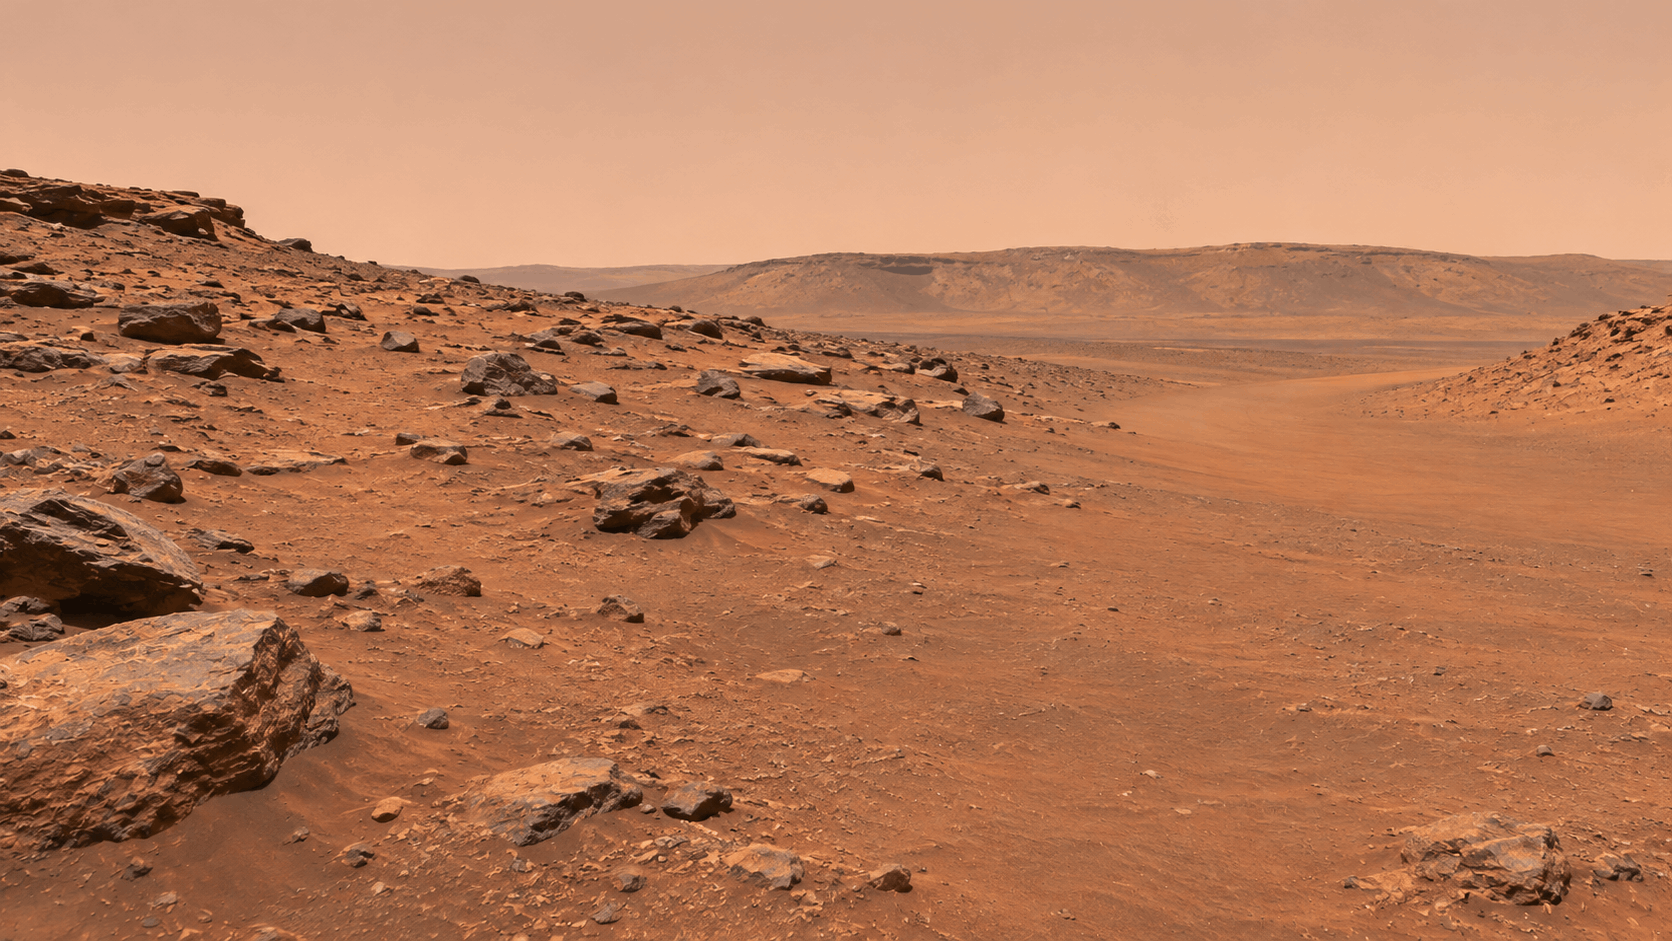
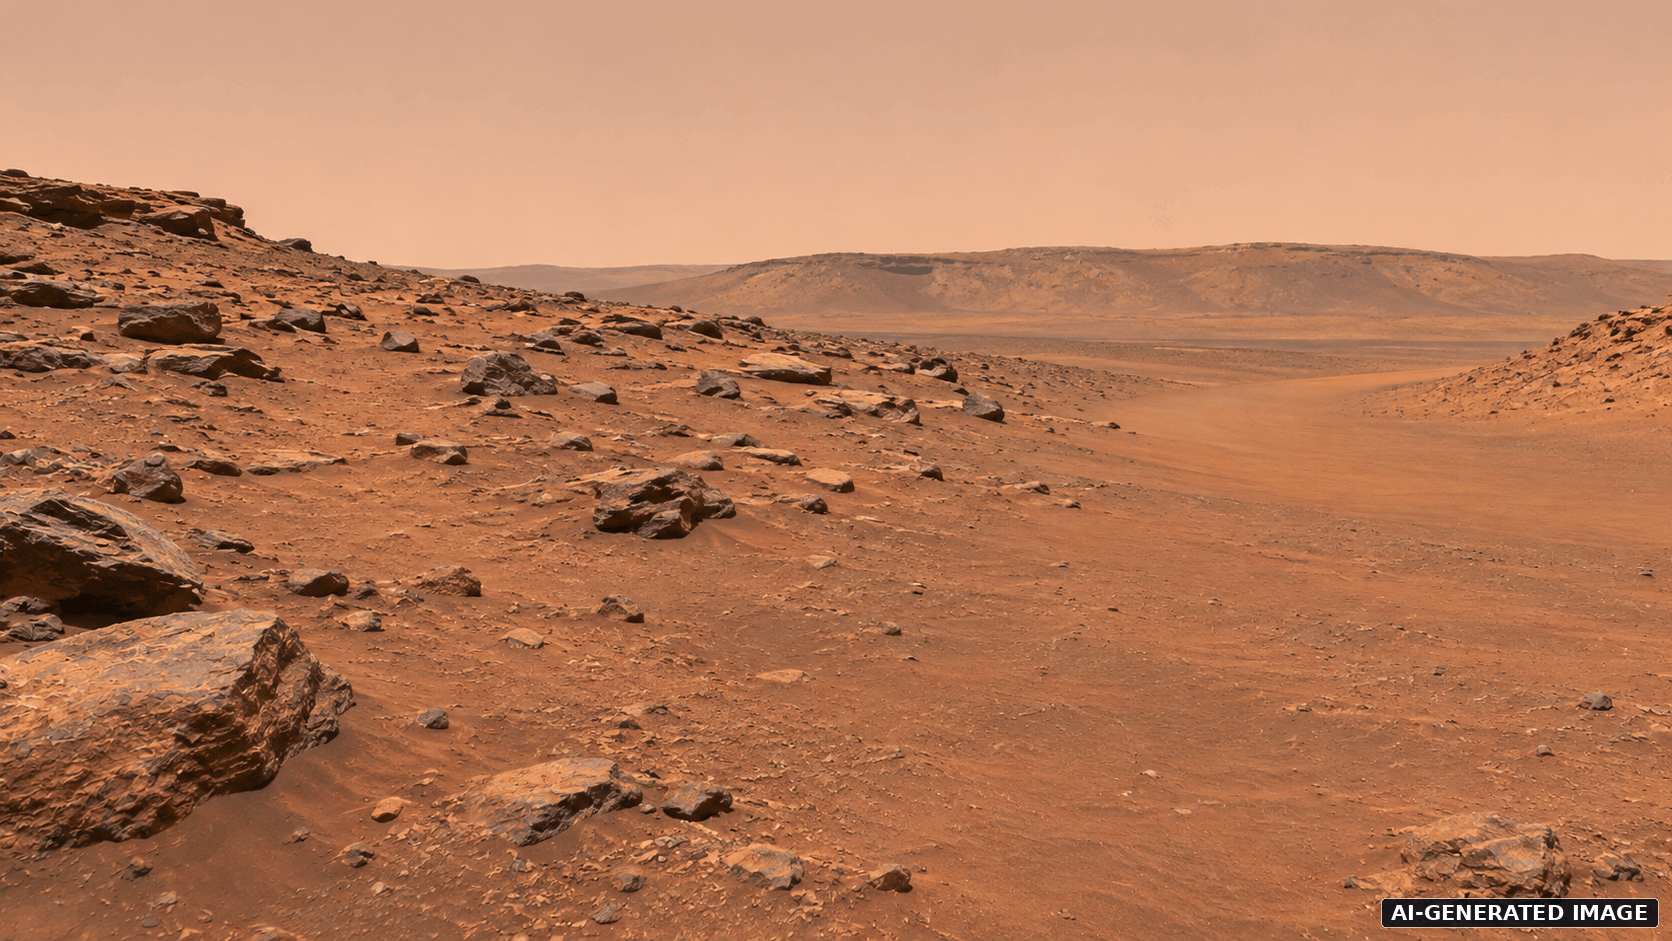
V12

Changed region(s): [[0.8086, 0.9554, 0.9952, 0.9862]]

diff --git a/src/game-next.js b/src/game-next.js
@@ -23,8 +23,7 @@ function fadeTo(next,delay=300){root.classList.add('mq-fade-out');setTimeout(()=
 const button=(t,a,kind='')=>`<button class="mq-btn ${kind}" data-act="${a}">${t}</button>`;
 const glass=(text='')=>`<span class="mq-tag">${text}</span>`;
 const source=(t='')=>t?`<span class="mq-source">${esc(t)}</span>`:'';
-const watermark=()=>`<span class="mq-ai">NASA historical photographs identified in records · AI-assisted visuals used for storytelling</span>`;
-const shell=(title,inner,opts={})=>`<main class="mq-screen ${opts.class||''}" style="--scene-bg:url('${opts.bg||IM.signals}')"><div class="mq-back"></div><div class="mq-vignette"></div><div class="mq-header"><span class="mq-brand"><img src="assets/branding/mira-quest-logo.png" alt="" class="mq-header-logo">MIRA QUEST</span><span class="mq-header-sub">${title}</span><div class="mq-nav">${button('▤ ARCHIVE','gallery','subtle')}${button('⚙','settings','subtle')}</div></div>${inner}${watermark()}</main>`;
+const shell=(title,inner,opts={})=>`<main class="mq-screen ${opts.class||''}" style="--scene-bg:url('${opts.bg||IM.signals}')"><div class="mq-back"></div><div class="mq-vignette"></div><div class="mq-header"><span class="mq-brand"><img src="assets/branding/mira-quest-logo.png" alt="" class="mq-header-logo">MIRA QUEST</span><span class="mq-header-sub">${title}</span><div class="mq-nav">${button('▤ ARCHIVE','gallery','subtle')}${button('⚙','settings','subtle')}</div></div>${inner}</main>`;
 function stopAll(){clearTimeout(timer);cancelAnimationFrame(raf);audio.pause();audio.currentTime=0;activeSound='';ambience.pause();ambience.currentTime=0;activeAmbience='';if(playingFx){playingFx.pause();playingFx=null;}if(video){video.pause();video=null;}}
 function track(name,loop=true){if(!audioUnlocked||s.muted||!name)return;const src=`assets/audio/${name}.mp3`;if(activeSound===src&&!audio.paused)return;audio.pause();audio.src=src;audio.loop=loop;audio.currentTime=0;activeSound=src;audio.volume=s.volume*(name==='signal'?.70:name==='opening'?.95:.66);const promise=audio.play();if(promise)promise.catch(()=>{s.soundTrouble=true;});}
 function fx(name){if(!audioUnlocked||s.muted)return;try{if(playingFx){playingFx.pause();playingFx.currentTime=0;}playingFx=new Audio(`assets/audio/${name}.mp3`);playingFx.volume=s.volume*.30;playingFx.play().catch(()=>{});}catch{}}
@@ -56,11 +55,11 @@ function renderTravel(){
  const m=mission[s.mission],moon=s.mission==='eagle'; const p=s.travel;
  const totalDays=202, currentDays=(p/100)*totalDays, currentHours=(p/100)*102.75;
  const progressLine=moon?`${Math.floor(currentHours)} HOURS INTO THE JOURNEY`:`${Math.floor(currentDays)} EARTH DAYS TRAVELED`;
- return shell(`JOURNEY TO ${m.world.toUpperCase()}`,`<div class="mq-stars"></div><div class="mq-fast-streaks" id="mq-streaks"></div><img class="mq-planet ${p>=75?'visible':''}" src="${moon?IM.moonNear:(p>94?IM.marsNear:IM.mars)}" alt="${m.world} photographed from space"><div class="mq-travel-title">${glass(moon?'APOLLO 11 · JULY 1969 · THREE-DAY LUNAR TRANSFER':'OPPORTUNITY · LAUNCHED JULY 2003 · LANDED JANUARY 2004')}<h2>${p>=100?m.world.toUpperCase()+' REACHED':'TRAVELING THROUGH SPACE'}</h2></div>${p>=100?`<div class="mq-arrived">${glass('ARRIVAL COMPLETE')}${button('START EXPLORING →','arrive','primary')}</div>`:''}<div class="mq-progress"><div class="mq-progress-meta"><span>EARTH</span><span>${moon?'MOON':'MARS'}</span></div><div class="mq-progress-line"><i style="width:${p}%"></i><b id="mq-progress-dot" style="left:${p}%"></b></div><p id="mq-travel-percent">${progressLine}</p><small id="mq-travel-speed">${moon?'A SHORTER JOURNEY TOWARD THE FIRST MOON LANDING':'A LONG JOURNEY THROUGH INTERPLANETARY SPACE'}</small></div>`,{bg:IM.stars,class:'mq-travel'});
+ return shell(`JOURNEY TO ${m.world.toUpperCase()}`,`<div class="mq-stars"></div><div class="mq-fast-streaks" id="mq-streaks"></div><img class="mq-planet ${p>=75?'visible':''}" src="${moon?IM.moonNear:IM.mars}" alt="${m.world} illustrated from space">${moon?'':`<img class="mq-planet mq-planet-near ${p>=94?'visible':''}" src="${IM.marsNear}" alt="" aria-hidden="true">`}<div class="mq-travel-title">${glass(moon?'APOLLO 11 · JULY 1969 · THREE-DAY LUNAR TRANSFER':'OPPORTUNITY · LAUNCHED JULY 2003 · LANDED JANUARY 2004')}<h2>${p>=100?m.world.toUpperCase()+' REACHED':'TRAVELING THROUGH SPACE'}</h2></div>${p>=100?`<div class="mq-arrived">${glass('ARRIVAL COMPLETE')}${button('START EXPLORING →','arrive','primary')}</div>`:''}<div class="mq-progress"><div class="mq-progress-meta"><span>EARTH</span><span>${moon?'MOON':'MARS'}</span></div><div class="mq-progress-line"><i style="width:${p}%"></i><b id="mq-progress-dot" style="left:${p}%"></b></div><p id="mq-travel-percent">${progressLine}</p><small id="mq-travel-speed">${moon?'A SHORTER JOURNEY TOWARD THE FIRST MOON LANDING':'A LONG JOURNEY THROUGH INTERPLANETARY SPACE'}</small></div>`,{bg:IM.stars,class:'mq-travel'});
 }
-function runTravel(){if(s.travel>=100)return;const duration=s.mission==='eagle'?7800:13200;const start=performance.now()-s.travel/100*duration;const tick=t=>{if(s.scene!=='travel')return;s.travel=Math.min(100,(t-start)/duration*100);const bar=root.querySelector('.mq-progress-line i'),p=root.querySelector('#mq-travel-percent'),ps=root.querySelector('#mq-travel-speed'),planet=root.querySelector('.mq-planet'),dot=root.querySelector('#mq-progress-dot');if(bar)bar.style.width=s.travel+'%';if(dot)dot.style.left=s.travel+'%';if(p){if(s.mission==='eagle'){const hours=Math.floor(s.travel/100*102.75);p.textContent=`${hours} HOURS INTO THE JOURNEY`;}else{const days=Math.floor(s.travel/100*202);p.textContent=`${days} EARTH DAYS TRAVELED`;}}if(planet){planet.classList.toggle('visible',s.travel>=75);if(s.mission==='opportunity'&&s.travel>=94&&!planet.dataset.close){planet.src=IM.marsNear;planet.dataset.close='yes'}}if(s.travel>=100){paint();return}raf=requestAnimationFrame(tick)};raf=requestAnimationFrame(tick)}
+function runTravel(){if(s.travel>=100)return;const duration=s.mission==='eagle'?7800:13200;const start=performance.now()-s.travel/100*duration;const tick=t=>{if(s.scene!=='travel')return;s.travel=Math.min(100,(t-start)/duration*100);const bar=root.querySelector('.mq-progress-line i'),p=root.querySelector('#mq-travel-percent'),ps=root.querySelector('#mq-travel-speed'),planet=root.querySelector('.mq-planet'),dot=root.querySelector('#mq-progress-dot');if(bar)bar.style.width=s.travel+'%';if(dot)dot.style.left=s.travel+'%';if(p){if(s.mission==='eagle'){const hours=Math.floor(s.travel/100*102.75);p.textContent=`${hours} HOURS INTO THE JOURNEY`;}else{const days=Math.floor(s.travel/100*202);p.textContent=`${days} EARTH DAYS TRAVELED`;}}if(planet)planet.classList.toggle('visible',s.travel>=75);const closePlanet=root.querySelector('.mq-planet-near');if(closePlanet)closePlanet.classList.toggle('visible',s.travel>=94);if(s.travel>=100){const title=root.querySelector('.mq-travel-title h2');if(title)title.textContent=mission[s.mission].world.toUpperCase()+' REACHED';if(!root.querySelector('.mq-arrived')){const box=document.createElement('div');box.className='mq-arrived';box.innerHTML=`${glass('ARRIVAL COMPLETE')}${button('START EXPLORING →','arrive','primary')}`;root.querySelector('.mq-travel')?.appendChild(box)}return}raf=requestAnimationFrame(tick)};raf=requestAnimationFrame(tick)}
 function renderArrival(){const m=mission[s.mission],done=s.scan>=m.scan.length;return shell(m.land,`<div class="mq-arrival-plate ${s.mission==='opportunity'?'mars':'moon'}"></div><div class="mq-scan mq-card">${glass('ENVIRONMENT SCAN')}<h2>${m.world.toUpperCase()} · ARRIVAL</h2>${m.scan.slice(0,s.scan).map(([k,v])=>`<div class="mq-scan-row"><span>${k}</span><b>${v}</b></div>`).join('')}${done?`<div class="mq-scan-row">✓ SCAN COMPLETE</div>${button('LOOK AROUND →','scanDone','primary')}`:''}</div>`,{bg:s.mission==='opportunity'?photo('mars-panorama-user.jpg'):m.arrive});}
-function renderLook(){const m=mission[s.mission],ready=s.look>=0.95,moon=s.mission==='eagle';return shell(m.land,`<div class="mq-panorama ${moon?'moon-look':'mars-look'}" id="mq-panorama"><div class="mq-panorama-scene" style="--pan:${(s.look*(moon?85:100)).toFixed(2)}%"></div>${moon?`<img class="mq-eagle-reveal" src="${IM.eagleStage}" alt="Apollo 11 Eagle descent stage reconstruction" style="opacity:${ready?1:0}" />`:''}</div><div class="mq-look-top">${glass(ready?'UNIDENTIFIED SIGNAL LOCATED':'SEARCH THE LANDSCAPE')}<p>${ready?'You found the source of the signal.':'Drag or tap Look Right to search the landscape.'}</p></div><div class="mq-look-arrows">${button('← LOOK LEFT','lookLeft','outline')}${button('LOOK RIGHT →','lookRight','outline')}</div>${ready?`<div class="mq-contact">${button('ESTABLISH CONTACT →','contact','primary')}</div>`:''}<span class="mq-source">${moon?'NASA Apollo 11 lunar surface image with an AI-assisted descent-stage reconstruction':'AI-assisted Opportunity encounter reconstruction · historical photographs are in the archive'}</span>`,{bg:moon?IM.signals:IM.oppTalk,class:'mq-search'});}
+function renderLook(){const m=mission[s.mission],ready=s.look>=0.95,moon=s.mission==='eagle';return shell(m.land,`<div class="mq-panorama ${moon?'moon-look':'mars-look'}" id="mq-panorama"><div class="mq-panorama-scene" style="--pan:${(s.look*(moon?85:100)).toFixed(2)}%"></div>${moon?`<img class="mq-eagle-reveal" src="${IM.eagleStage}" alt="Apollo 11 Eagle descent stage reconstruction" style="opacity:${ready?1:0}" />`:''}</div><div class="mq-look-top">${glass(ready?'UNIDENTIFIED SIGNAL LOCATED':'SEARCH THE LANDSCAPE')}<p>${ready?'You found the source of the signal.':'Drag or tap Look Right to search the landscape.'}</p></div><div class="mq-look-arrows">${button('← LOOK LEFT','lookLeft','outline')}${button('LOOK RIGHT →','lookRight','outline')}</div>${ready?`<div class="mq-contact">${button('ESTABLISH CONTACT →','contact','primary')}</div>`:''}`,{bg:moon?IM.signals:IM.oppTalk,class:'mq-search'});}
 function currentAct(){return window.MIRA_STORIES[s.mission]?.[s.act]};
 function currentBeats(){const a=currentAct();return s.phase==='after'?(a.after||[]):a.beats||[];}
 function replaceName(t){return String(t).replaceAll('{name}',s.name||'Explorer');}
@@ -135,7 +134,7 @@ function renderEvidence(){
  else if(kind==='ascent')body=`${photoBlock(pth,'Apollo 11 ascent-stage departure reconstructed')}<div class="mq-evidence-aside">${glass('JULY 21, 1969')}<h3>Look what remains.</h3>${speakerLine('I stayed here as the launch platform while the upper stage lifted Neil Armstrong and Buzz Aldrin toward their companion in lunar orbit. Both stages had served their purpose.')}${button('RETURN TO EAGLE →','evidenceDone','primary')}</div>`;
  else if(kind==='storm'){
  const lines=['At first, the sunlight was simply dimmer. Then the sky grew thick with dust.','My solar panels needed sunlight. Every day, there was less of it reaching me.','On June 10, 2018, my last message arrived on Earth. I cannot tell you exactly what happened inside my systems afterward.','My team kept listening. For months, they tried to reach me again. But no reply came.'];
- body=`<div class="mq-storm-full"><div class="mq-storm-video-wrap"><video id="mq-storm-video" src="${V}mars-sandstorm.mp4" preload="metadata" playsinline loop autoplay muted poster="${IM.oppStorm}"></video></div><div class="mq-storm-intro-curtain"></div><div class="mq-storm-narration mq-dialogue mq-card"><div class="mq-speaker">${avatar('OPPORTUNITY')}<b>OPPORTUNITY</b></div><p id="mq-storm-line">${esc(lines[Math.min(s.stormLine,lines.length-1)])}</p><div class="mq-dialogue-actions">${button(s.stormLine<lines.length-1?'CONTINUE →':'RETURN TO OPPORTUNITY →',s.stormLine<lines.length-1?'stormNext':'evidenceDone','primary')}</div></div></div>`;
+ body=`<div class="mq-storm-full"><div class="mq-storm-video-wrap"><video id="mq-storm-video" src="${V}mars-sandstorm.mp4" preload="metadata" playsinline loop autoplay muted poster="${IM.oppStorm}"></video><span class="mq-generated-video-label">AI-GENERATED VIDEO · RECONSTRUCTION</span></div><div class="mq-storm-intro-curtain"></div><div class="mq-storm-narration mq-dialogue mq-card"><div class="mq-speaker">${avatar('OPPORTUNITY')}<b>OPPORTUNITY</b></div><p id="mq-storm-line">${esc(lines[Math.min(s.stormLine,lines.length-1)])}</p><div class="mq-dialogue-actions">${button(s.stormLine<lines.length-1?'CONTINUE →':'RETURN TO OPPORTUNITY →',s.stormLine<lines.length-1?'stormNext':'evidenceDone','primary')}</div></div></div>`;
  }
  return shell(`${mission[s.mission].name.toUpperCase()} / MEMORY`,kind==='storm'?body:`<section class="mq-evidence-head">${glass('A MEMORY FROM '+mission[s.mission].name.toUpperCase())}<h2>${e.title}</h2></section><section class="mq-evidence-layout">${body}</section><span class="mq-evidence-credit">${esc(e.caption)}</span>`,{bg:kind==='storm'?IM.signals:mission[s.mission].bg,class:'mq-evidence-screen '+(kind==='storm'?'storm-scene':'')});
 }

diff --git a/game-next.css b/game-next.css
@@ -189,3 +189,8 @@
 .mq-brand{display:inline-flex;align-items:center;gap:7px}
 .mq-brand .mq-header-logo{width:22px;height:22px;object-fit:contain;flex-shrink:0}
 @media(max-width:520px){.mq-brand .mq-header-logo{width:18px;height:18px}}
+
+/* Submission media labeling and single, stable planet approach. */
+.mq-travel .mq-planet-near{z-index:0;opacity:0;animation:none!important;transition:opacity .9s ease!important;}
+.mq-travel .mq-planet-near.visible{opacity:1;animation:none!important;}
+.mq-generated-video-label{position:absolute;right:12px;top:12px;z-index:8;display:block;font:700 11px/1.4 'IBM Plex Mono',monospace;letter-spacing:.04em;color:#fff;background:rgba(3,10,18,.83);border:1px solid rgba(255,255,255,.4);padding:6px 9px;border-radius:3px;pointer-events:none;}
